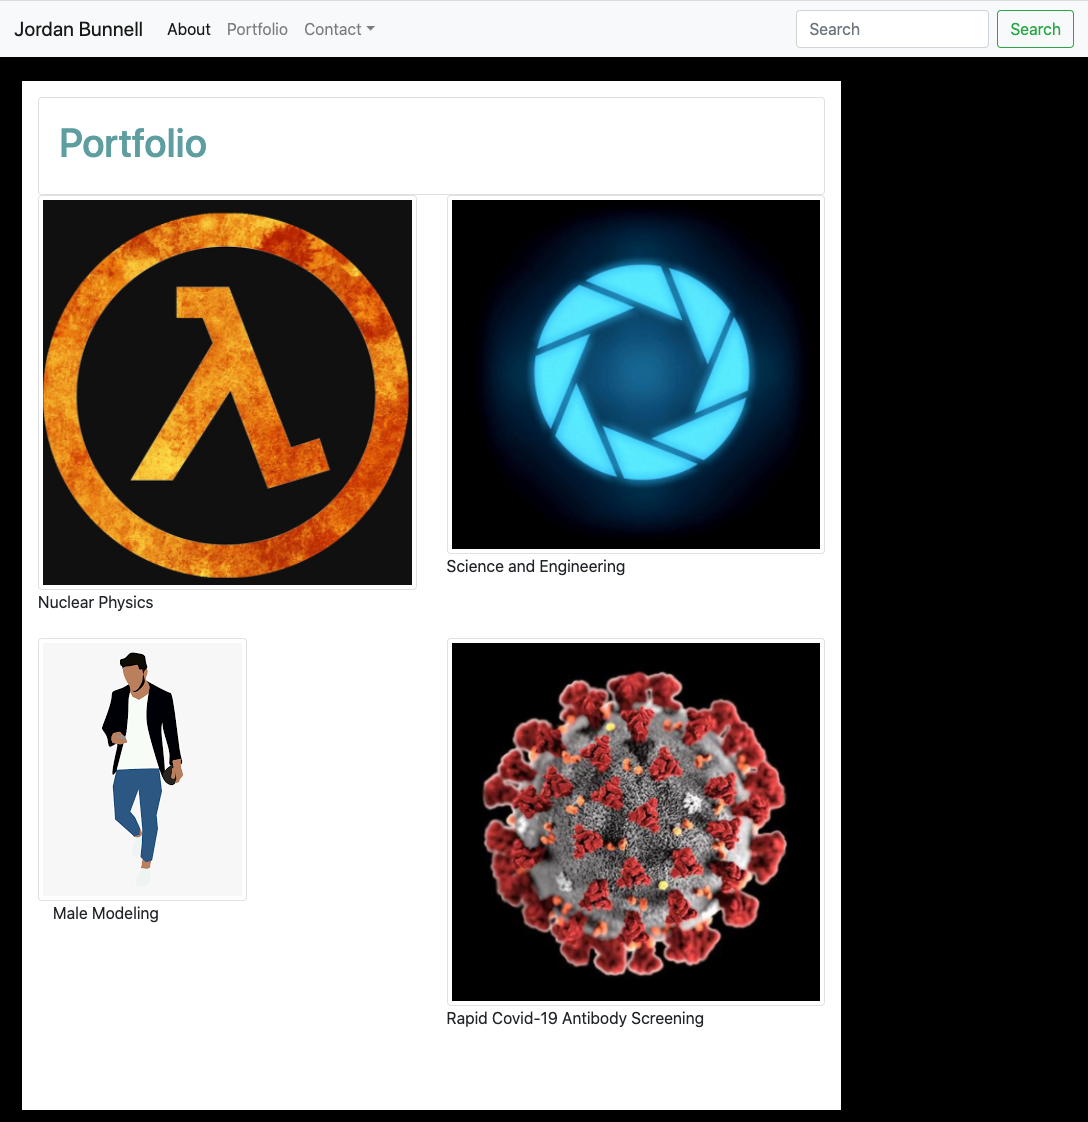
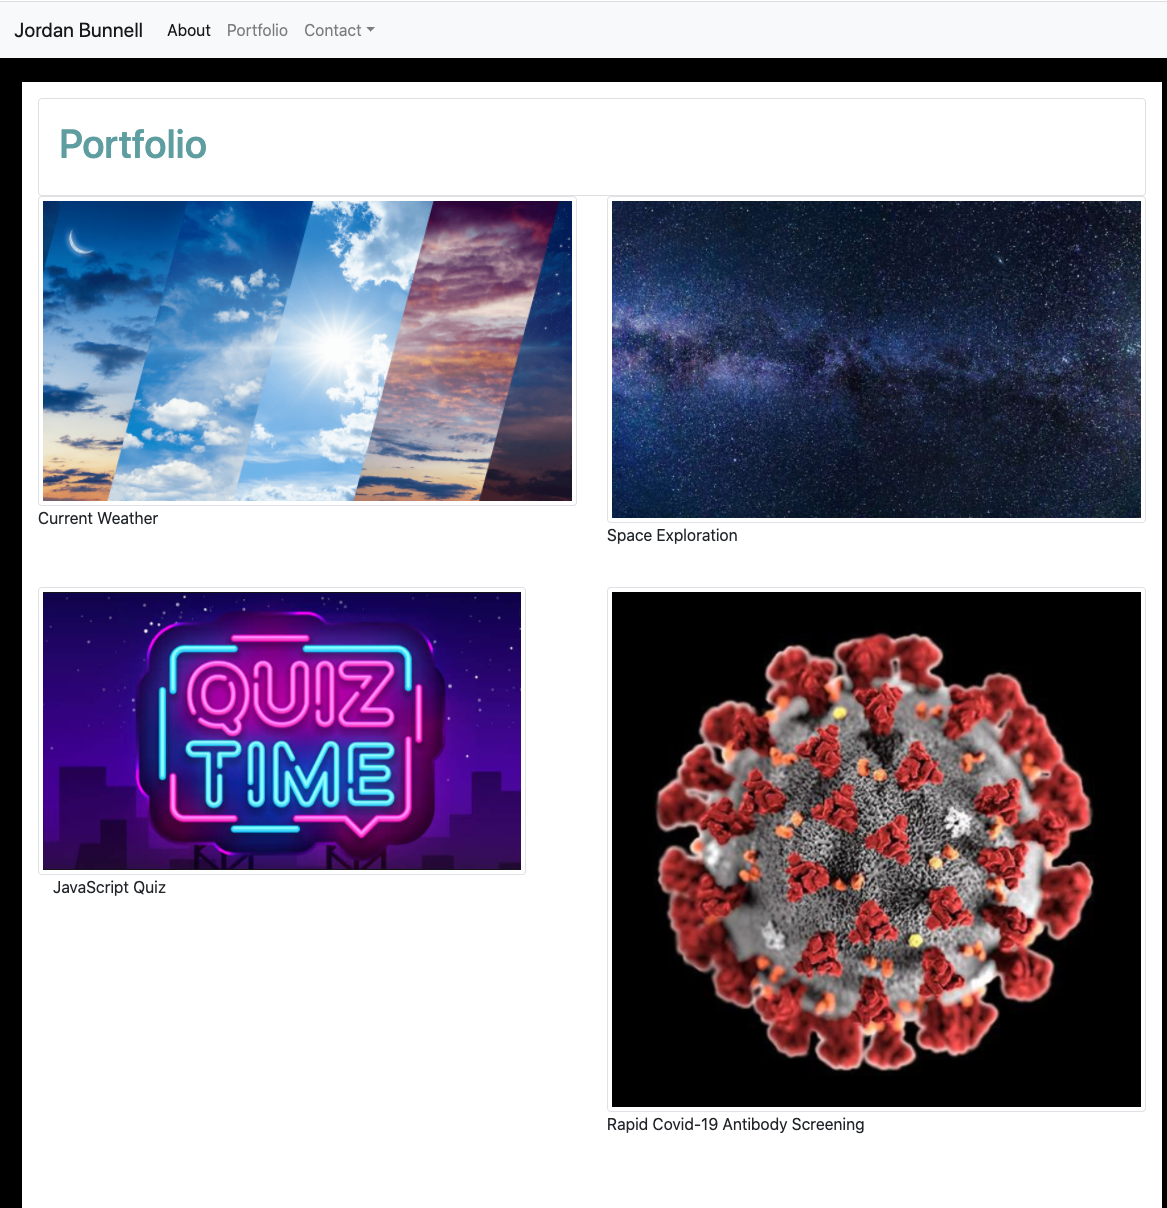
Updated Portfolio

diff --git a/portfolio.html b/portfolio.html
@@ -55,24 +55,24 @@
                 </div>
                 <div class="row">
                   <div class="col-lg-6">
-                    <img class="img img-thumbnail" src="hl.png"> Nuclear Physics
+                    <a href="https://jordanrbunnell.github.io/weatherworks/"><img class="img img-thumbnail" src="weather.png"> </a>Current Weather
                   </div>
                   <div class="col-lg-6">
-                    <img class="img img-thumbnail" src="ap.png"> Science and Engineering
+                    <a href="https://jordanrbunnell.github.io/spaceexploration/"><img class="img img-thumbnail" src="space.jpg"> </a>Space Exploration
                     <p></p>
                   </div>
                 </div>
                 <br>
                 <div class="row">
                   <div class="col-lg-6">
-                    <img class="img img-thumbnail" src="model.png"> 
+                    <a href="https://jordanrbunnell.github.io/javascriptquiz/"><img class="img img-thumbnail" src="quiz.png"> </a>
                     
-                    <div class="col-lg-6">Male Modeling
+                    <div class="col-lg-6">JavaScript Quiz
                         
                     </div>
                   </div>
                   <div class="col-lg-6">
-                    <img class="img img-thumbnail" src="covid.png"> Rapid Covid-19 Antibody Screening
+                    <a href="https://www.mytestdiagnostics.com/"> <img class="img img-thumbnail" src="covid.png"> </a>Rapid Covid-19 Antibody Screening
                     <p></p>
                   </div>
                 </div>
